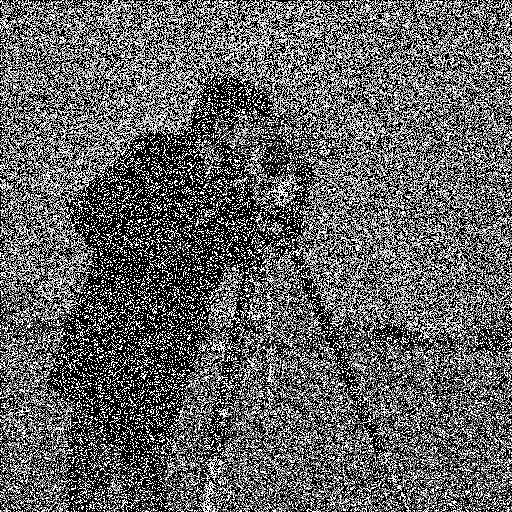
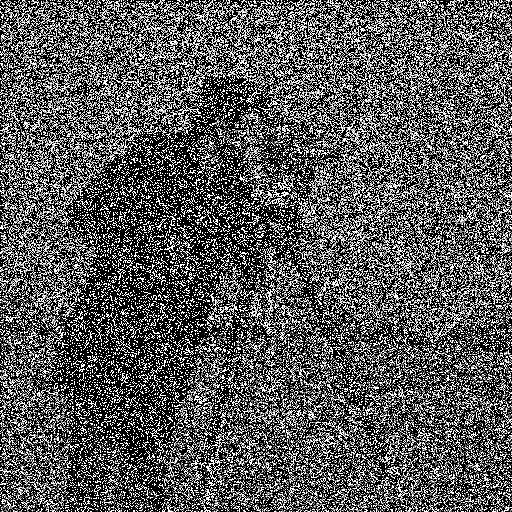
add noise generation class to main.py

diff --git a/get_salty.py b/get_salty.py
@@ -5,14 +5,14 @@ from PIL import Image
 class generatorXnoise:
     def __init__(self, generate, overwrite):
         self.generate = generate
-        self.ocerwrite = overwrite
+        self.overwrite = overwrite
         
     def generate(img):
         # Getting the dimensions of the image
     	row , col = img.shape
     	
-        #randomly putting 10000 salt
-    	number_of_pixels = 150000
+        #randomly putting 170000 salt
+    	number_of_pixels = 190000
     	for i in range(number_of_pixels):
     	
     		# Pick a random y coordinate
@@ -25,8 +25,8 @@ class generatorXnoise:
     		img[y_coord][x_coord] = 255
     		
 
-        #randomly putting 10000 salt
-    	number_of_pixels = 150000
+        #randomly putting 170000 salt
+    	number_of_pixels = 190000
     	for i in range(number_of_pixels):
     	
     		# Pick a random y coordinate
@@ -39,19 +39,17 @@ class generatorXnoise:
     		img[y_coord][x_coord] = 0
     		
     	return img
+    
+    def overwrite():
 
-# salt-and-pepper noise can
-# be applied only to grayscale images
-# Reading the color image in grayscale image
-img = cv2.imread('cameraman-og.png',
-				cv2.IMREAD_GRAYSCALE)
+        # salt-and-pepper noise can
+        # be applied only to grayscale images
+        # Reading the color image in grayscale image
+        img = cv2.imread('cameraman-og.png',
+        				cv2.IMREAD_GRAYSCALE)
 
-#Storing the image
-cv2.imwrite('salty-cameraman.jpg', 
-            generatorXnoise.generate(img))
+        #Storing the image
+        cv2.imwrite('salty-cameraman.jpg', 
+                    generatorXnoise.generate(img))
 
-def main():
-    img = Image.open("salty-cameraman.jpg")
-    img.show()
-
-main()
+        return img

diff --git a/main.py b/main.py
@@ -1,15 +1,18 @@
 from filters import filters
 from headers import importAll
+from get_salty import generatorXnoise
 
 import numpy
 from PIL import Image
 importAll()
 
 
-# original image with noise
+# adds noise to original image
+img = generatorXnoise.overwrite()
 img0 = Image.open("salty-cameraman.jpg").convert("L")
 arr = numpy.array(img0)
 img0.show()
+
 
 # performing filters
 removed_noise_pd = filters.purposed_design(arr, 3) 
@@ -21,9 +24,12 @@ img1.show() # our method
 img2 = Image.fromarray(removed_noise_mf)
 img2.show() # median filter
 
-#todo:
-    #add header file
-    #add generating noise option
-    #continue working on purpossed method
-    #find a name for so called "purpossed method"
-    #figure out how to perform assessment on results
+
+"""
+todo:
+    add header file
+    add generating noise option
+    continue working on purpossed method
+    find a name for so called "purpossed method"
+    figure out how to perform assessment on results
+"""

diff --git a/filter-design.py b/filter-design.py
@@ -2,6 +2,7 @@
 # -*- coding: utf-8 -*-
 
 #This dir is used for experimentation with filter design
+#it is not a part of the project 
 
 #impors libs
 from headers import importAll
